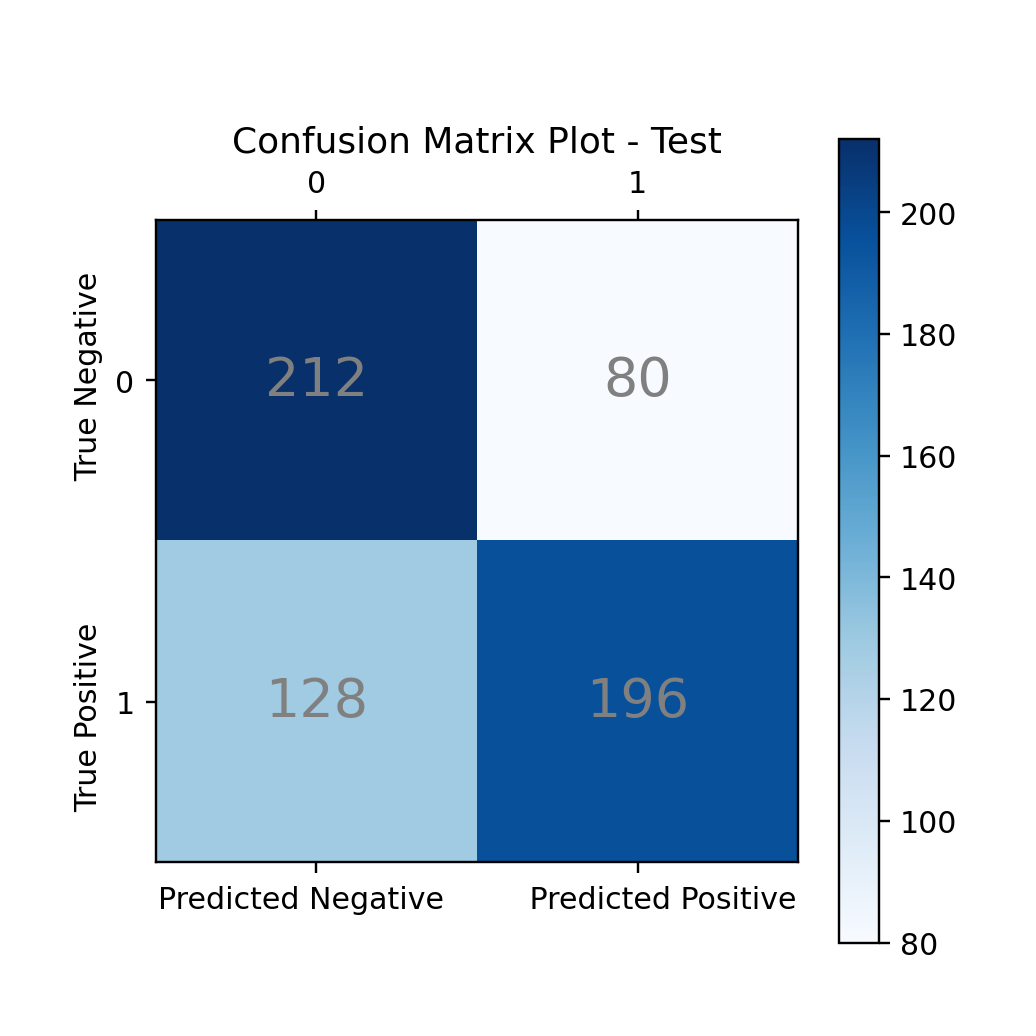
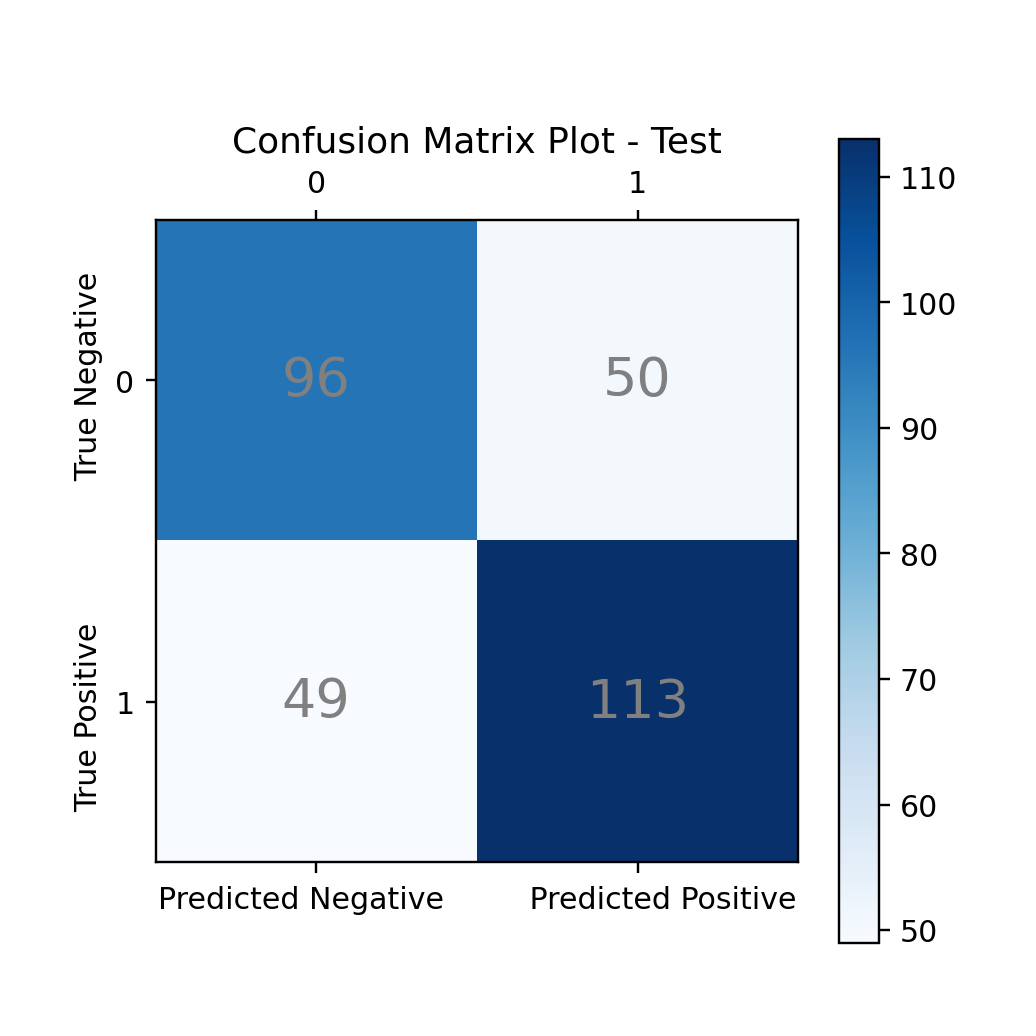
label 1 and 0 , AUC included, threshold

diff --git a/main.py b/main.py
@@ -72,9 +72,9 @@ hidden_dim_nn_3 = 0
 hidden_dim_gat_0 = 30
 
 
-hidden_dim_fcn_1 = 50
+hidden_dim_fcn_1 = 150
 hidden_dim_fcn_2 = 100
-hidden_dim_fcn_3 = 0 #TODO QUITAR
+hidden_dim_fcn_3 = 50 #TODO 
 
 
 model = GCN_Geo(
@@ -103,7 +103,7 @@ val_losses = []
 best_val_loss = float('inf')  # infinito
 
 start_time_training = time.time()
-number_of_epochs = 100
+number_of_epochs = 1000
 
 for epoch in range(1, number_of_epochs+1):
     train_loss = train(model, device, train_dataloader, optimizer, epoch)
@@ -137,11 +137,12 @@ plt.show()
 
 #Testing:
 weights_file = "best_model_weights.pth"
+threshold=0.4
 
-# ////////// Training set /////////////:
+# ------------------------------------////////// Training set /////////////---------------------------------------------------
 input_all, target_all_train, pred_prob_all_train = predict_test(model, train_dataloader, device, weights_file)
 
-bcm = BinaryConfusionMatrix(task="binary", threshold=0.5, num_classes=2).to(device) #TODO
+bcm = BinaryConfusionMatrix(task="binary", threshold=threshold, num_classes=2).to(device) #TODO
 confusion_matrix = bcm(pred_prob_all_train, target_all_train)
 confusion_matrix_np = confusion_matrix.detach().cpu().numpy()
 
@@ -191,11 +192,11 @@ print(f"F1 Score: {f1_score_train:.3f}")
 fpr, tpr, thresholds = roc_curve( target_all_train.cpu().numpy(), pred_prob_all_train.cpu().numpy())
 
 # Calcular el área bajo la curva ROC (AUC)
-roc_auc = auc(fpr, tpr)
+roc_auc_train = auc(fpr, tpr)
 
 # Trazar la curva ROC
 plt.figure(figsize=(8, 6))
-plt.plot(fpr, tpr, color='darkorange', lw=2, label=f'AUC = {roc_auc:.2f}')
+plt.plot(fpr, tpr, color='darkorange', lw=2, label=f'AUC = {roc_auc_train:.2f}')
 plt.plot([0, 1], [0, 1], color='navy', lw=2, linestyle='--', label='Random Guess')
 plt.xlabel('False Positive Rate (FPR)')
 plt.ylabel('True Positive Rate (TPR)')
@@ -203,11 +204,11 @@ plt.title('Receiver Operating Characteristic (ROC) Curve - Trainning Set')
 plt.legend(loc='lower right')
 plt.show()
 
-# ////////// Validation Set //////////:
+#-------------------------------------------- ////////// Validation Set //////////-------------------------------------------------
 
 input_all, target_all_validation, pred_prob_all_validation = predict_test(model, val_dataloader, device, weights_file)
 
-bcm = BinaryConfusionMatrix(task="binary", threshold=0.5, num_classes=2).to(device)  #TODO
+bcm = BinaryConfusionMatrix(task="binary", threshold=threshold, num_classes=2).to(device)  #TODO
 confusion_matrix = bcm(pred_prob_all_validation, target_all_validation)
 confusion_matrix_np = confusion_matrix.detach().cpu().numpy()
 
@@ -254,11 +255,11 @@ print(f"F1 Score: {f1_score_val:.3f}")
 fpr, tpr, thresholds = roc_curve( target_all_validation.cpu().numpy(), pred_prob_all_validation.cpu().numpy())
 
 # Calcular el área bajo la curva ROC (AUC)
-roc_auc = auc(fpr, tpr)
+roc_auc_validation = auc(fpr, tpr)
 
 # Trazar la curva ROC
 plt.figure(figsize=(8, 6))
-plt.plot(fpr, tpr, color='darkorange', lw=2, label=f'AUC = {roc_auc:.2f}')
+plt.plot(fpr, tpr, color='darkorange', lw=2, label=f'AUC = {roc_auc_validation:.2f}')
 plt.plot([0, 1], [0, 1], color='navy', lw=2, linestyle='--', label='Random Guess')
 plt.xlabel('False Positive Rate (FPR)')
 plt.ylabel('True Positive Rate (TPR)')
@@ -266,10 +267,10 @@ plt.title('Receiver Operating Characteristic (ROC) Curve - Validation Set')
 plt.legend(loc='lower right')
 plt.show()
 
-# ////////// Test Set //////////:
+# --------------------------------------------////////// Test Set //////////---------------------------------------------------
 input_all, target_all_test, pred_prob_all_test = predict_test(model, test_dataloader, device, weights_file)
 
-bcm = BinaryConfusionMatrix(task="binary",threshold=0.5, num_classes=2).to(device) #TODO
+bcm = BinaryConfusionMatrix(task="binary",threshold=threshold, num_classes=2).to(device) #TODO
 confusion_matrix = bcm(pred_prob_all_test, target_all_test)
 confusion_matrix_np = confusion_matrix.detach().cpu().numpy()
 
@@ -318,11 +319,11 @@ print(f"F1 Score: {f1_score_test:.3f}")
 fpr, tpr, thresholds = roc_curve( target_all_test.cpu().numpy(), pred_prob_all_test.cpu().numpy())
 
 # Calcular el área bajo la curva ROC (AUC)
-roc_auc = auc(fpr, tpr)
+roc_auc_test= auc(fpr, tpr)
 
 # Trazar la curva ROC
 plt.figure(figsize=(8, 6))
-plt.plot(fpr, tpr, color='darkorange', lw=2, label=f'AUC = {roc_auc:.2f}')
+plt.plot(fpr, tpr, color='darkorange', lw=2, label=f'AUC = {roc_auc_test:.2f}')
 plt.plot([0, 1], [0, 1], color='navy', lw=2, linestyle='--', label='Random Guess')
 plt.xlabel('False Positive Rate (FPR)')
 plt.ylabel('True Positive Rate (TPR)')
@@ -330,7 +331,9 @@ plt.title('Receiver Operating Characteristic (ROC) Curve - Test Set')
 plt.legend(loc='lower right')
 plt.show()
 
-#Times
+
+
+#-----------------Times---------------------------
 finish_time = time.time()
 time_prediction = (finish_time - finish_time_training) / 60
 total_time = (finish_time - start_time) / 60
@@ -340,8 +343,8 @@ print("\n //// Prediction time: {:3f} minutes ////".format(time_prediction))
 print("\n //// Total time: {:3f} minutes ////".format(total_time))
 
 
+#--------------------------------///////////Result DataFrame////////////---------------------------------------
 
-# Result DataFrame
 data = {
     "Metric": [
         "number_features",
@@ -362,6 +365,7 @@ data = {
         "learning_rate",
         "weight_decay",
         "number_of_epochs",
+        "threshold",
         "true_positives_train",
         "true_negatives_train",
         "false_positives_train",
@@ -370,7 +374,8 @@ data = {
         "precision_train", 
         "recall_train", 
         "specificity_train",
-        "f1_score_train", 
+        "f1_score_train",
+        "roc_auc_train", 
         "true_positives_validation",
         "true_negatives_validation",
         "false_positives_validation",
@@ -380,6 +385,7 @@ data = {
         "recall_val", 
         "specificity_val",
         "f1_score_val", 
+        "roc_auc_validation",
         "true_positives_test",
         "true_negatives_test",
         "false_positives_test",
@@ -389,6 +395,7 @@ data = {
         "recall_test", 
         "specificity_test",
         "f1_score_test", 
+        "roc_auc_test",
         "time_preprocessing", 
         "time_training",
         "time_prediction",
@@ -413,6 +420,7 @@ data = {
         learning_rate,
         weight_decay,
         number_of_epochs,
+        threshold,
         true_positives_train,
         true_negatives_train,
         false_positives_train,
@@ -422,6 +430,7 @@ data = {
         recall_train, 
         specificity_train,
         f1_score_train,
+        roc_auc_train,
         true_positives_validation,
         true_negatives_validation,
         false_positives_validation,
@@ -431,6 +440,7 @@ data = {
         recall_val, 
         specificity_val,
         f1_score_val,
+        roc_auc_validation,
         true_positives_test,
         true_negatives_test,
         false_positives_test,
@@ -440,6 +450,7 @@ data = {
         recall_test, 
         specificity_test,
         f1_score_test,
+        roc_auc_test,
         time_preprocessing, 
         time_training,
         time_prediction,

diff --git a/src/model.py b/src/model.py
@@ -49,7 +49,8 @@ class GCN_Geo(torch.nn.Module):
         #The 7 comes from the four peptides features that were concatenated
         self.linear1 = nn.Linear(hidden_dim_gat_0+7, hidden_dim_fcn_1)
         self.linear2 = nn.Linear(hidden_dim_fcn_1, hidden_dim_fcn_2 )
-        self.linear3 = nn.Linear(hidden_dim_fcn_2, 2) #TODO Classification
+        self.linear3 = nn.Linear(hidden_dim_fcn_2, hidden_dim_fcn_3) 
+        self.linear4 = nn.Linear(hidden_dim_fcn_3, 1) #TODO 
         
         
         # self.sigmoid = nn.Sigmoid()
@@ -104,9 +105,9 @@ class GCN_Geo(torch.nn.Module):
         p = F.relu(p)
         
         p = self.linear3(p)
-        
-        # p = self.sigmoid(p)
-        
+    
+        p = self.linear4(p)
+    
         return p
 
 
@@ -124,3 +125,6 @@ def get_amino_indices(num_aminoacid):
 
 
 # %%
+
+
+
